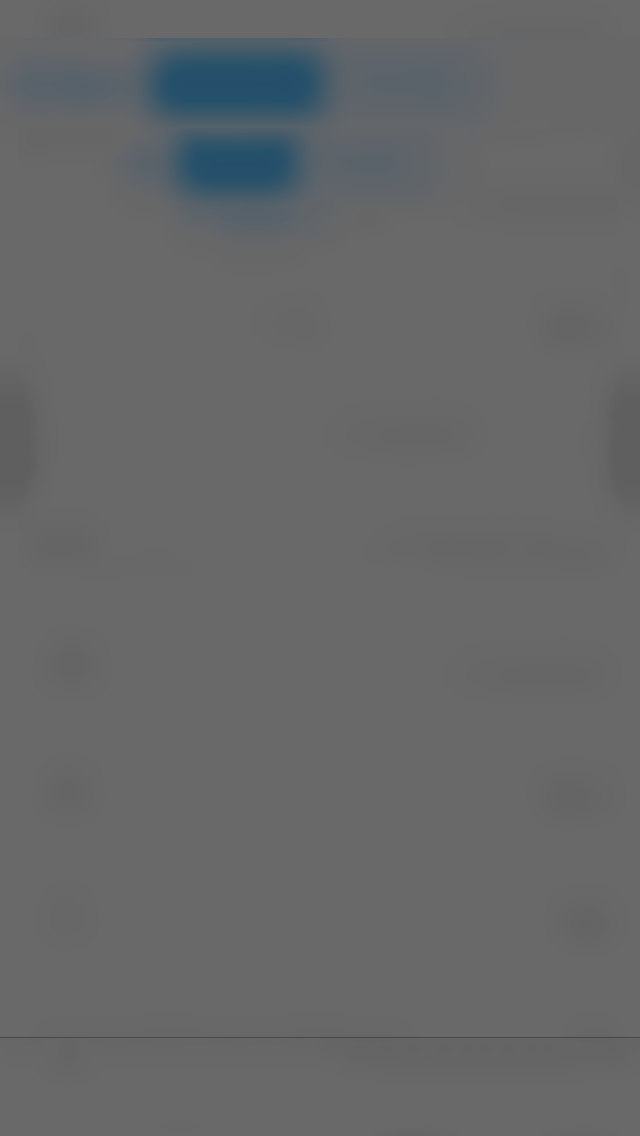
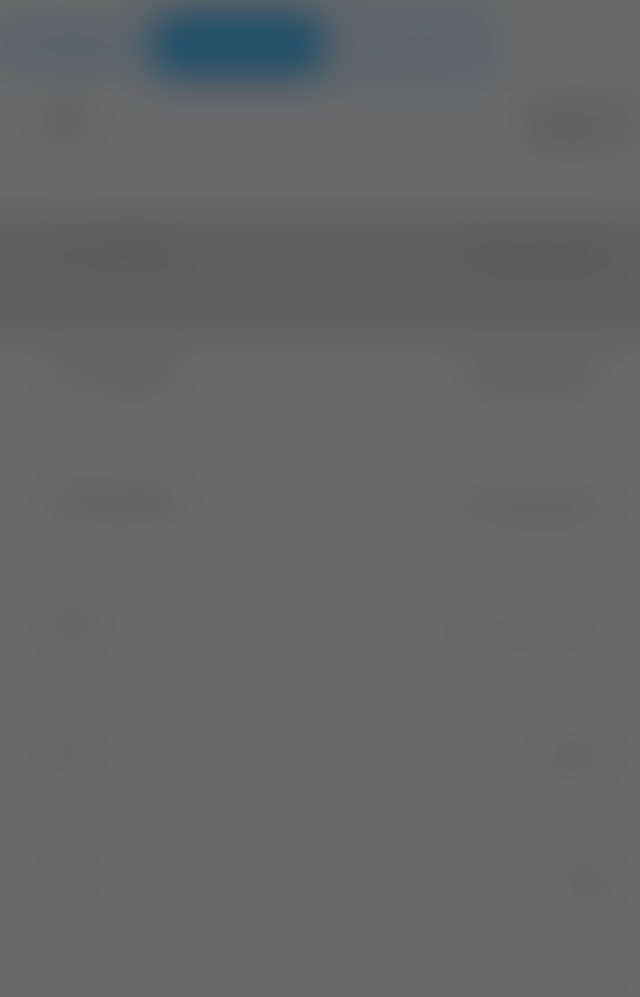
add overrides complete. need to send data to server.

Changed region(s): [[0.2188, 0.0, 0.5312, 0.1866]]

diff --git a/VCell/AddParamView.m b/VCell/AddParamView.m
@@ -83,9 +83,113 @@ enum segments {
 
 - (IBAction)addBtnClicked:(id)sender
 {
+    
+    /*
+     typedef enum : NSUInteger {
+     LogInterval,
+     List,
+     Single,
+     LinearInterval,
+     Dependent
+     } OverrideType;
+     */
+    
+    NSMutableArray *overrides = self.parameterSelectTableViewController.application.overrides;
+    NSScanner *scanner = [NSScanner scannerWithString:self.valueTextField.text];
+    switch (self.segmentControl.selectedSegmentIndex) {
+        case segmentNone:
+            self.override.cardinality = @(1);
+            [overrides addObject:self.override];
+            break;
+        case segmentDependant:
+            self.override.type = Dependent;
+            self.override.cardinality = @(1);
+            if(!([scanner scanDouble:nil] && [scanner isAtEnd])) {
+                [self showErrorAlert];
+                return;
+            }
+            self.override.values = @[@(self.valueTextField.text.doubleValue)];
+            [overrides addObject:self.override];
+            break;
+        case segmentSingle:
+            self.override.type = Single;
+            self.override.cardinality = @(1);
+            if(!([scanner scanDouble:nil] && [scanner isAtEnd])) {
+                [self showErrorAlert];
+                return;
+            }
+            self.override.values = @[@(self.valueTextField.text.doubleValue)];
+            [overrides addObject:self.override];
+            break;
+        case segmentList:
+            self.override.type = List;
+            self.override.cardinality = @(1);
+            self.override.values = [self overrideValuesCommaSeperated]; //@[@(self.valueTextField.text.doubleValue)];
+            if(!self.override.values)
+                return;
+            [overrides addObject:self.override];
+            break;
+        case segmentLinear:
+            self.override.type = LinearInterval;
+            self.override.cardinality = [NSNumber numberWithInt:self.cardiTextFIeld.text.intValue];
+            self.override.values = [self overrideValuesCommaSeperated];
+            if(!self.override.values)
+                return;
+            [overrides addObject:self.override];
+            break;
+        case segmentLog:
+            self.override.type = LogInterval;
+            self.override.cardinality = [NSNumber numberWithInt:self.cardiTextFIeld.text.intValue];
+            self.override.values = [self overrideValuesCommaSeperated];
+            if(!self.override.values)
+                return;
+            [overrides addObject:self.override];
+            break;
+        default:
+            break;
+    }
     [self.superview removeFromSuperview];
+    [self.parameterSelectTableViewController.tableView reloadData];
     self.parameterSelectTableViewController.tableView.scrollEnabled = YES;
     self.parameterSelectTableViewController.tableView.allowsSelection = YES;
+}
+
+- (NSArray*)overrideValuesCommaSeperated
+{
+    NSArray *seperatedValues = [self.valueTextField.text componentsSeparatedByString:@","];
+    __block NSMutableArray *values = [NSMutableArray array];
+
+    [seperatedValues enumerateObjectsUsingBlock:^(NSString *val, NSUInteger idx, BOOL *stop) {
+        NSScanner *scanner = [NSScanner scannerWithString:val];
+        if(!([scanner scanDouble:nil] && [scanner isAtEnd])) {
+            [self showErrorAlert];
+            values = nil;
+            return;
+        }
+        [values addObject:@(val.doubleValue)];
+    }];
+    
+    return values;
+}
+
+- (void)showErrorAlert
+{
+    NSString *msg;
+    switch (self.segmentControl.selectedSegmentIndex) {
+
+        case segmentDependant:
+        case segmentSingle:
+            msg = @"Please enter a double Value";
+            break;
+        case segmentList:
+        case segmentLinear:
+        case segmentLog:
+            msg = @"Please enter comma seperated double Values";
+            break;
+        default:
+            break;
+    }
+    [[[UIAlertView alloc] initWithTitle:@"error" message:msg delegate:nil cancelButtonTitle:@"Ok" otherButtonTitles:nil] show];
 }
 
 - (IBAction)cancelBtnClicked:(id)sender

diff --git a/VCell/ParameterSelectTableViewController.m b/VCell/ParameterSelectTableViewController.m
@@ -84,7 +84,6 @@
     if(cell.addedState)
         return;
     
-
     self.paramView = [[[NSBundle mainBundle] loadNibNamed:@"AddParamView" owner:self options:nil] objectAtIndex:0];
     self.paramView.parameterSelectTableViewController = self;
     
@@ -92,7 +91,10 @@
     NSDictionary *dict = @{@"name" : param.name , @"values" : @[param.defaultValue] , @"type" : @"Single"};
     self.paramView.override = [[ApplicationOverride alloc] initWithDict:dict];
     
-    UIImageView *blurView = [[UIImageView alloc] initWithFrame:self.navigationController.view.frame];
+    CGRect frame = self.navigationController.view.frame;
+    frame.origin.y = 20;
+    UIImageView *blurView = [[UIImageView alloc] initWithFrame:frame];
+    
     blurView.userInteractionEnabled = YES;
     blurView.image = [UIImage imageNamed:@"blurImg.png"];
     [self.navigationController.view addSubview:blurView];

diff --git a/VCell/ConfigureSimulationTableViewController.m b/VCell/ConfigureSimulationTableViewController.m
@@ -61,6 +61,11 @@
     [self setupFooterView];
 }
 
+- (void)viewWillAppear:(BOOL)animated
+{
+    [self setupFooterView];
+}
+
 - (void)setUpCells
 {
     self.nameCell.detailTextLabel.text = _application.name;
